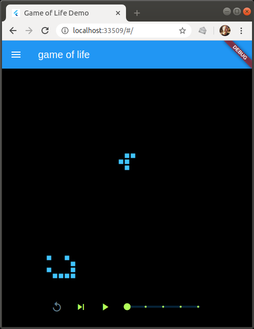
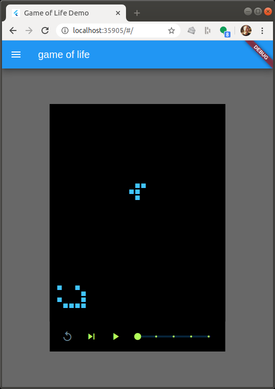
update

diff --git a/lib/gol_grid.dart b/lib/gol_grid.dart
@@ -3,7 +3,7 @@ import 'package:flutter_bloc/flutter_bloc.dart';
 import 'package:grid_world/grid_world.dart';
 import 'package:thumper/thumper.dart';
 
-/// GolGrid shows a GridWorld controlled by a Thumper<GridWorld>.
+/// GolGrid is a widget showing a GridWorld controlled by a Thumper<GridWorld>.
 class GolGrid extends StatelessWidget {
   final Color controlsForegroundColor;
   final Color controlsBackgroundColor;
@@ -13,10 +13,10 @@ class GolGrid extends StatelessWidget {
   /// Calculator for this widget.
   final GolGridDimensions _dim;
 
-  /// Returns a widget just big enough to hold the GridWorld passed as an arg.
-  /// The world passed as an argument is discarded; it's only used for sizing.
+  /// Returns a widget sized to its [GolGridDimensions] argument.
   /// It's assumed that the worlds provided in the state stream from
-  /// ThumperBloc<GridWorld> will all have the same size as this argument.
+  /// ThumperBloc<GridWorld> will all have matching dimensions (this is
+  /// assured if they came from a [GridWorldIterable]).
   GolGrid(
     this._dim, {
     this.controlsForegroundColor = Colors.lightGreenAccent,
@@ -33,22 +33,21 @@ class GolGrid extends StatelessWidget {
           return _column(state.thing, _dim.worldSize(state.thing));
         },
       );
-
-  Widget _column(GridWorld gw, Size size) => PreferredSize(
-        preferredSize: Size(size.width, size.height + Thumper.height),
+  Widget _column(GridWorld gw, Size size) => Container(
+        width: size.width,
+        height: size.height + Thumper.height,
+        color: backgroundColor,
         child: Column(
           mainAxisAlignment: MainAxisAlignment.center,
           children: [
-            _paintedGrid(gw, size),
+            CustomPaint(
+              foregroundPainter: _CellPainter(gw, _dim, foregroundColor),
+              painter: _BackgroundPainter(size, backgroundColor),
+              size: size,
+            ),
             Thumper<GridWorld>(onColor: controlsForegroundColor),
           ],
         ),
-      );
-
-  Widget _paintedGrid(GridWorld gw, Size size) => CustomPaint(
-        foregroundPainter: _CellPainter(gw, _dim, foregroundColor),
-        painter: _BackgroundPainter(size, backgroundColor),
-        size: size,
       );
 }
 

diff --git a/example/lib/main.dart b/example/lib/main.dart
@@ -74,12 +74,14 @@ class _MyScaffold extends StatelessWidget {
       create: (context) => ThumperBloc<GridWorld>.fromIterable(
           GridWorldIterable(w, limit: 5000)),
       child: Scaffold(
-        backgroundColor: Colors.black,
+        backgroundColor: Colors.black26,
         appBar: AppBar(
           title: Text('game of life'),
           leading: Icon(Icons.menu), // Does nothing at the moment.
         ),
-        body: Center(child: GolGrid(dimensions)),
+        body: Container(
+          color: Colors.black45,
+            child: Center(child: GolGrid(dimensions))),
       ),
     );
   }

diff --git a/README.md b/README.md
@@ -1,11 +1,16 @@
-# golgrid
+# GolGrid
 
-A Game of Life widget.
+A `GolGrid` is a flutter widget showing
+a [`GridWorld`] controlled by a [`Thumper`].
+
+I.e. it's Conway's [Game of Life] in a flutter widget.
+The widget iterates through evolutionary steps of
+a given world via the `Thumper`.
 
 ### Example
 
 The [example] iterates through steps in
-a simple world with a lightweight [spaceship]
+a world with a lightweight [spaceship]
 cruising below an [R-pentomino].
 
 
@@ -22,8 +27,11 @@ cd gol_grid/example
 flutter -d web run
 ```
 
-[R-pentomino]: https://www.conwaylife.com/wiki/R-pentomino
-[spaceship]: https://www.conwaylife.com/wiki/Spaceship
+[`GridWorld`]: https://pub.dev/packages/grid_world
+[`Thumper`]: https://pub.dev/packages/thumper
+[Game of Life]: https://en.wikipedia.org/wiki/Conway%27s_Game_of_Life
+[R-pentomino]: https://en.wikipedia.org/wiki/Conway%27s_Game_of_Life#Examples_of_patterns
+[spaceship]: https://en.wikipedia.org/wiki/Conway%27s_Game_of_Life#Examples_of_patterns
 [example]: ./example/lib/main.dart
 [shot1]: ./images/shot1.png
 [shot2]: ./images/shot2.png
